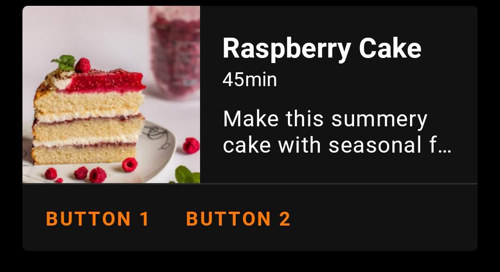
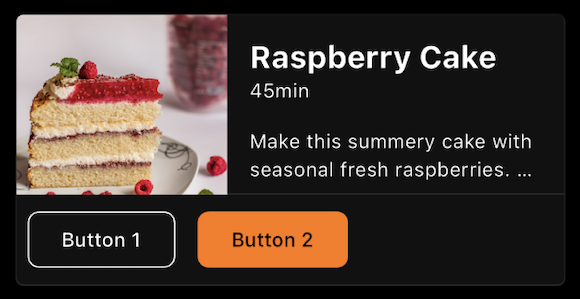
documentation : add docs for card horizontal

diff --git a/docs/_layouts/main.html b/docs/_layouts/main.html
@@ -105,7 +105,7 @@
                 </div>
             </div>
             <div class="col">
-                <p class="text-white bg-dark h1">ODS iOS Documentation</p>
+                <p class="text-white bg-dark h1">ODS Flutter Documentation</p>
             </div>
             <div class="col">
             </div>

diff --git a/docs/components/cards.md b/docs/components/cards.md
@@ -11,177 +11,86 @@ description: Cards contain content and actions about a single subject.
 * [Specifications references](#specifications-references)
 * [Accessibility](#accessibility)
 * [Variants](#variants)
-    * [Vertical Image First Card)](#vertical-image-first-card)
-    * [Vertical Header First Card)](#vertical-header-first-card)
-    * [Horizontal Card](#horizontal-card)
-    * [Small Card](#small-card)
+    * [Vertical image first card](#vertical-image-first-card)
+    * [Vertical header first card](#vertical-header-first-card)
+    * [Small card](#small-card)
+    * [Horizontal card](#horizontal-card)
 * [Component specific tokens](#component-specific-tokens)
 
 ---
 
 ## Specifications references
 
-- [Design System Manager - Cards](https://system.design.orange.com/0c1af118d/p/66bac5-cards/b/1591fb)
+- [Design System Manager - Cards](https://system.design.orange.com/0c1af118d/p/0336aa-cards/b/47a25a)
+- [Material Design - Cards](https://material.io/components/cards/)
+- Technical documentation soon available
 
 ## Accessibility
 
-Please follow [accessibility criteria for development](https://a11y-guidelines.orange.com/en/mobile/ios/)
-
-Images in cards are considered as decorative, so they are ignored by Voice Over.
+Please follow [accessibility criteria for development](https://m3.material.io/components/cards/accessibility)
 
 ## Variants
 
-Cards are a contained and independent element that can display content and actions on a single topic.
+### Vertical image first card
 
-There are a few ways cards can be presented. Ranging from a single title on its own for a simple card view or with more information shown in a subtitle and supporting text and actions at the bottom of the card.
+This is a full width card containing elements arranged vertically with an image as first element.
 
+> **Flutter implementation**
 
-### Vertical Image First Card
+_Soon available_
 
-This is a full width card displayed with an image as first element.
+### Vertical header first card
 
-This card is composed of two parts:
-- Media: (today an image)
-- Content: with a title, an optinal subtitle an optinal supporting text and optional buttons (zero up to two)
+This is a full width card containing elements arranged vertically with a header (thumbnail, title & subtitle) as first element.
 
-> **Implementation**
+> **Flutter implementation**
 
-Card is configured using `ODSCardVerticalHeaderFirstModel` like this:
+_Soon available_
 
-```swift
-let model = ODSCardVerticalImageFirstModel(
-    title: "Title",
-    subtitle: "Subtitle",
-    image: Image("ods_empty", bundle: Bundle.ods),
-    supportingText: "A supporting text to describe something")
-    
-ODSCardVerticalImageFirst(model: model) {
-    ODSButton(text: "Button 1", emphasis: .medium) {
-            // do something here
-        }
-    } buttonContent2: {
-        ODSButton(text: "Button 1", emphasis: .medium) {
-            // do something here
-        } 
-    }
-}
+### Small card
+
+This is a small card which takes the half screen width.
+
+> **Flutter implementation**
+
+You can add an `OdsSmallCard` in your screen to add a small card:
+
+_Soon available_
+
+### Horizontal card
+
+This is a full screen width card with an image on the side. The image can be displayed on the left or on the right.
+
+  ![Horizontal card light](images/card_horizontal_light.png) ![Horizontal card dark](images/card_horizontal_dark.png)
+
+> **Flutter implementation**
+
+In your screen you can use `OdsHorizontalCard` composable:
+
+```dart
+return OdsHorizontalCard(
+  title: "Title",
+  image: FadeInImage(
+    placeholder: AssetImage('assets/placeholder.png'),
+    image: NetworkImage("url"),
+    fit: BoxFit.cover,
+    imageErrorBuilder: (context, error, stackTrace) {
+      return Image(
+        image: AssetImage('assets/placeholder.png'),
+        fit: BoxFit.cover,
+      );
+    },
+  ),
+  subtitle: "Subtitle", //Optional
+  text: "Text", //Optional
+  firstButton: OdsOutlinedButton(text: "First button", onClick: () {}), //Optional
+  secondButton: OdsButton(text: "Second button", onClick: () {}), //Optional
+  imagePosition: OdsHorizontalCardImagePosition.start, //Optional. Start by default.
+  divider: false, // Optional. True by default.
+  onClick: () {},
+);
 ```
 
-### Vertical Header First Card
+## Component specific tokens
 
-This is a full width card displaying with a title and a thumbnail on top as first element.
-
-This card is composed of three parts:
-- Header: with a title, an optinal subtitle and an optinal thmubnail
-- Media: (today an image)
-- Content: with an optinal supporting text and optional buttons (zero up to two)
-
-> **Implementation**
-
-Card is configured using `ODSCardVerticalHeaderFirstModel` like this:
-
-```swift
-let model = ODSCardVerticalHeaderFirstModel(
-    title: "Title",
-    subtitle: "Subtitle",
-    thumbnail: Image("ods_empty", bundle: Bundle.ods),
-    image: Image("ods_empty", bundle: Bundle.ods),
-    supportingText: "A supporting text to describe something")
-    
-ODSCardVerticalHeaderFirst(model: model) {
-    ODSButton(text: "Button 1", emphasis: .medium) {
-            // do something here
-        }
-    } buttonContent2: {
-        ODSButton(text: "Button 1", emphasis: .medium) {
-            // do something here
-        } 
-    }
-}
-```
-
-### Horizontal Card
-
-This is a full width card displaying with image on left and content with texts on the right. Additonal action buttons can be added at the bottom of the card. 
-
-Thes content is composed by:
-- a title
-- an optional subtitle
-- an optional supporting text for larger description
-
-> **Implementation**
-
-Card is configured using `ODSCardHorizontalModel` like this:
-
-```swift
-let model = ODSCardHorizontalModel(
-    title: "Title",
-    subtitle: "Subtitle",
-    imageSource: .image(Image("ods_empty", bundle: Bundle.ods)),
-    imagePosition: .leading,
-    supportingText: "A supporting text to describe something")
-    
-ODSCardHorizontal(model: model) {
-    ODSButton(text: "Button 1", emphasis: .medium) {
-            // do something here
-        }
-    } buttonContent2: {
-        ODSButton(text: "Button 1", emphasis: .medium) {
-            // do something here
-        } 
-    }
-}
-```
-
-### Small Card  
-
-The small card if prefered for two-column portrait mobile screen display.
-As it is smaller than full-width cards, it contains only title and subtitle (optinal) in one line (Truncated tail).
-
-> **Implementation**
-
-Card is configured using `ODSCardSmallModel` like this:
-
-```swift
-let model = ODSCardSmallModel(
-    title: "Title",
-    subtitle: "Subtitle",
-    image: Image("ods_empty", bundle: Bundle.ods)) 
-
-ODSCardSmall(model: model)
-```
-
-How to add Small Card in Grid 
-
-```swift
-let models = [
-    ODSCardSmallModel(
-        title: "Title 1",
-        subtitle: "Subtitle 1",
-        image: Image("ods_empty", bundle: Bundle.ods)) { 
-            Text("This card has a destination view")
-        },
-    ODSCardSmallModel(
-        title: "Title 2",
-        subtitle: "Subtitle 2",
-        image: Image("ods_empty", bundle: Bundle.ods)) { 
-            Text("This card has a destination view")
-        },
-    //...
-    ]
-
-/// /!\ Don't forget to put the grid into a scrollview
-ScrollView {
-    LazyVGrid(columns: columns, spacing: ODSSpacing.none) {
-        ForEach(models) { model in
-            ODSCardSmall(model: model)
-        }
-        .padding(.bottom, ODSSpacing.m)
-    }
-}
- 
-```
-
- 
-
-
+_Soon available_
